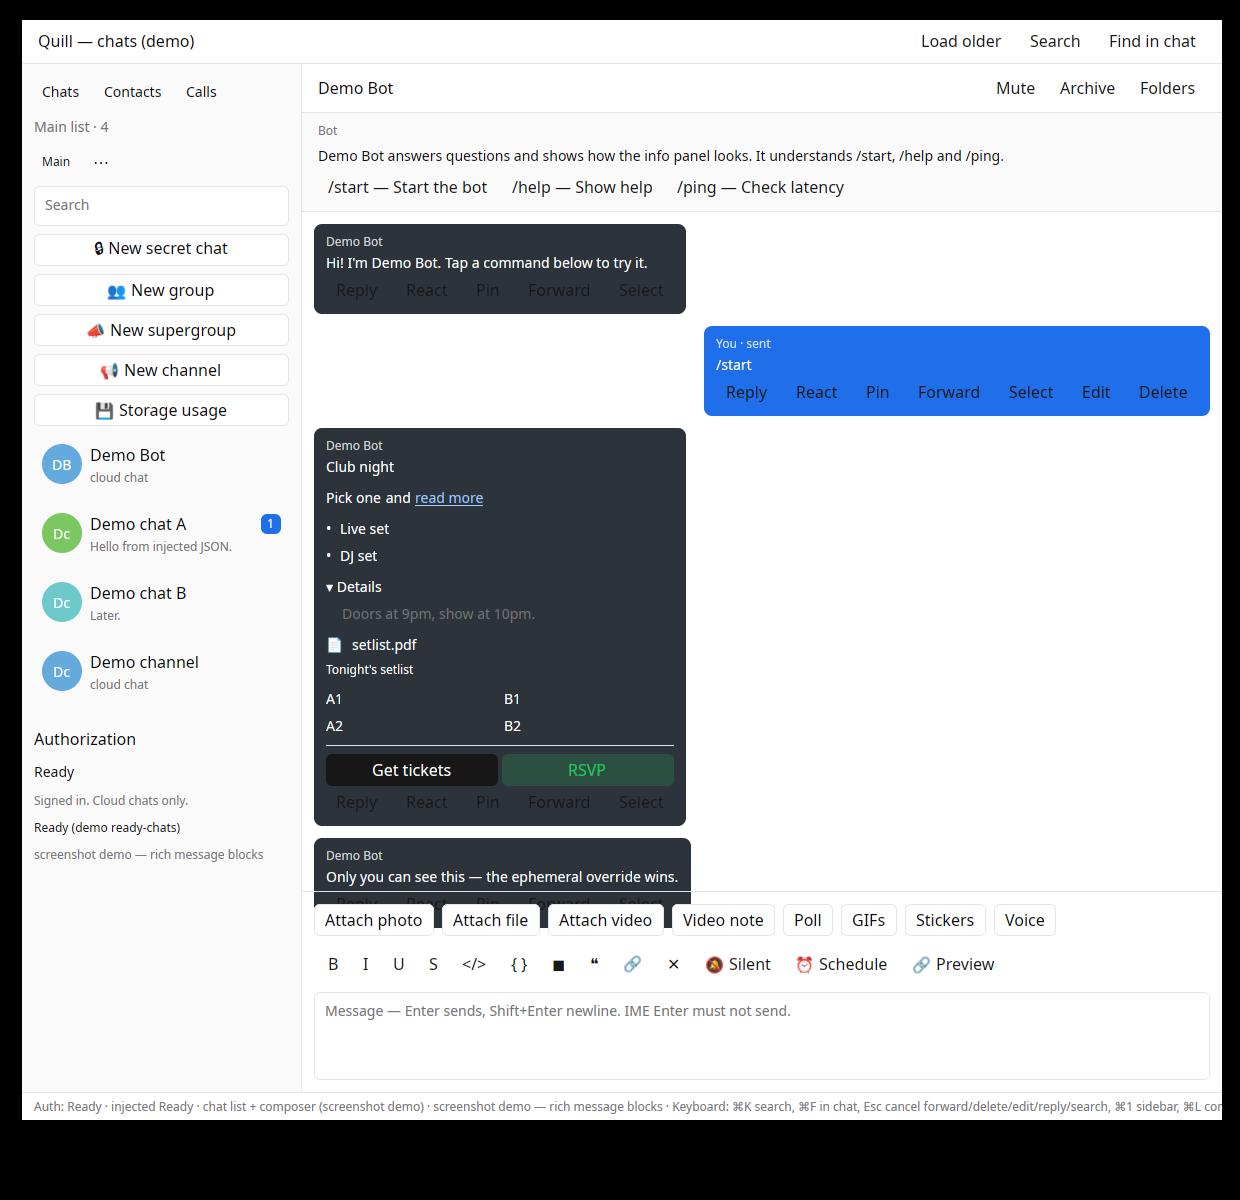
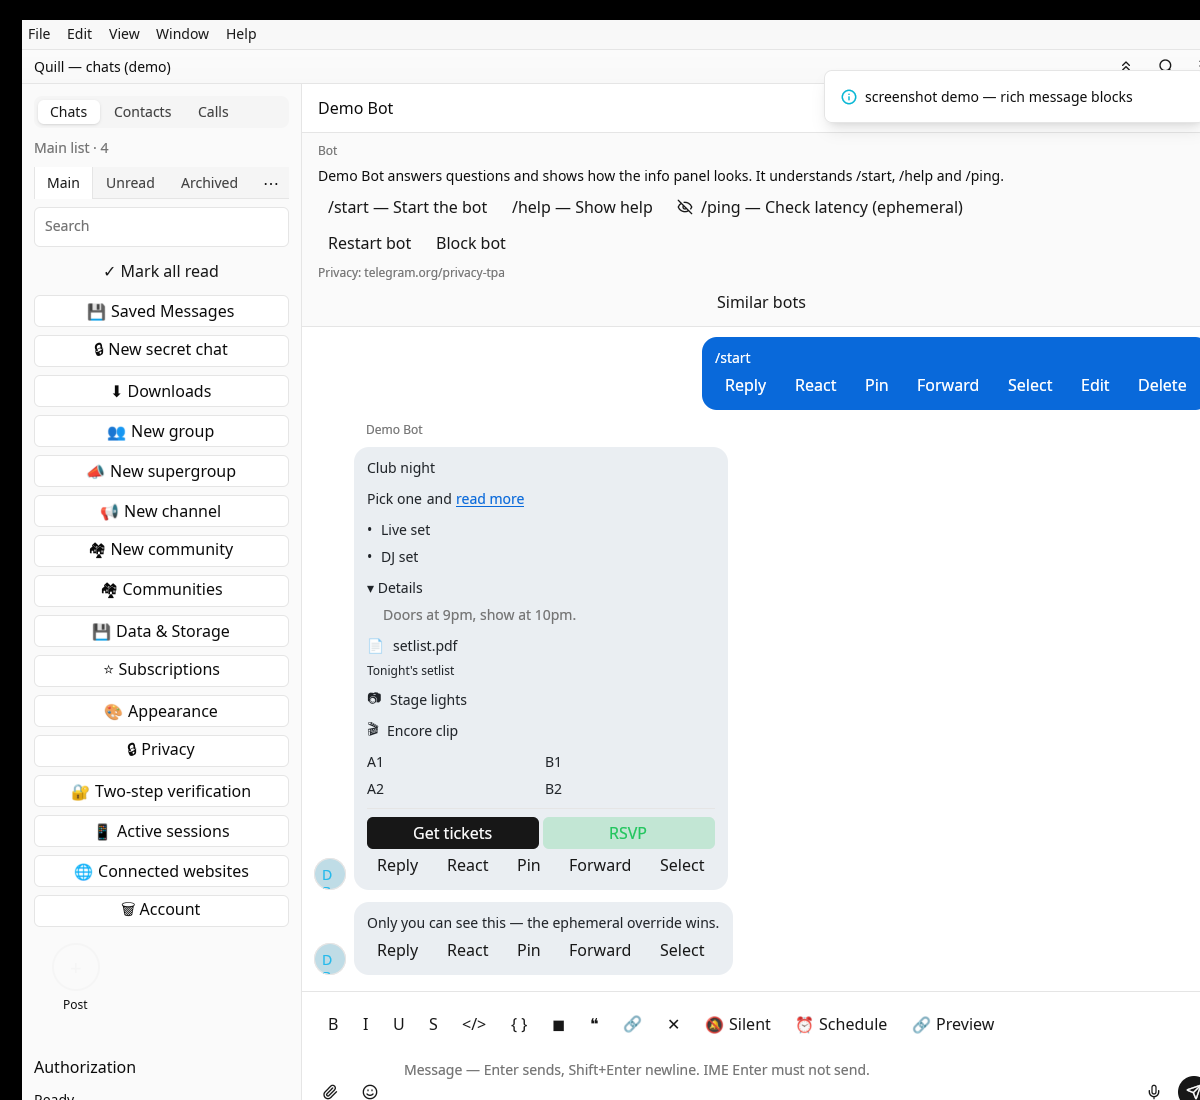
Slice msg-richtext-inline-media: inline photos/videos in the rich-text composer (#226)
* Slice msg-richtext-inline-media: inline photos/videos in the rich-text composer

* Fix text_char_len for new Photo/Video blocks (exhaustive match from #216)

* fmt: cargo fmt --all

* fix: close for loop in inline-media attachment conversion

---------

diff --git a/src/rich.rs b/src/rich.rs
@@ -48,6 +48,16 @@ pub enum RichBlock {
         /// Set only for editor-created blocks (outgoing `inputDocumentFile`).
         local_path: Option<PathBuf>,
     },
+    Photo {
+        caption: String,
+        /// Set only for editor-created blocks (outgoing `inputPhoto`).
+        local_path: Option<PathBuf>,
+    },
+    Video {
+        caption: String,
+        /// Set only for editor-created blocks (outgoing `inputVideo`).
+        local_path: Option<PathBuf>,
+    },
     Table {
         rows: Vec<Vec<String>>,
     },
@@ -75,6 +85,7 @@ impl RichBlock {
             RichBlock::Document {
                 file_name, caption, ..
             } => len(file_name) + len(caption),
+            RichBlock::Photo { caption, .. } | RichBlock::Video { caption, .. } => len(caption),
             RichBlock::Table { rows } => rows.iter().flatten().map(|cell| len(cell)).sum(),
             RichBlock::ButtonRow { .. }
             | RichBlock::Divider
@@ -94,6 +105,9 @@ impl RichBlock {
             }
             RichBlock::Document { file_name, .. } => {
                 (!file_name.is_empty()).then_some(file_name.as_str())
+            }
+            RichBlock::Photo { caption, .. } | RichBlock::Video { caption, .. } => {
+                (!caption.is_empty()).then_some(caption.as_str())
             }
             _ => None,
         }
@@ -117,6 +131,18 @@ fn field_str(value: &Value, field: &str) -> String {
 
 fn block_type(value: &Value) -> &str {
     value.get("@type").and_then(Value::as_str).unwrap_or("")
+}
+
+/// Plain text of a `pageBlockCaption` node (`pageBlockPhoto`,
+/// `pageBlockVideo`, `pageBlockDocument` share this shape).
+fn block_caption(value: &Value) -> String {
+    rich_text_to_parts(
+        value
+            .get("caption")
+            .and_then(|c| c.get("text"))
+            .unwrap_or(&Value::Null),
+    )
+    .0
 }
 
 #[derive(Default)]
@@ -417,18 +443,21 @@ pub fn parse_page_block(value: &Value) -> RichBlock {
         }
         "pageBlockDocument" => {
             let document = value.get("document").unwrap_or(&Value::Null);
-            let (caption, _, _) = rich_text_to_parts(
-                value
-                    .get("caption")
-                    .and_then(|c| c.get("text"))
-                    .unwrap_or(&Value::Null),
-            );
             RichBlock::Document {
                 file_name: field_str(document, "file_name"),
-                caption,
+                caption: block_caption(value),
                 local_path: None,
             }
         }
+        // Schema :4279 (`pageBlockPhoto`) and :4287 (`pageBlockVideo`).
+        "pageBlockPhoto" => RichBlock::Photo {
+            caption: block_caption(value),
+            local_path: None,
+        },
+        "pageBlockVideo" => RichBlock::Video {
+            caption: block_caption(value),
+            local_path: None,
+        },
         "pageBlockButtonRow" => {
             let buttons = value
                 .get("buttons")
@@ -570,8 +599,17 @@ fn block_rich_text(text: &str) -> Value {
     formatted_to_rich_text(&clean, &entities)
 }
 
+/// `pageBlockCaption` for an outgoing media block (schema :4133).
+fn page_block_caption(caption: &str) -> Value {
+    json!({
+        "@type": "pageBlockCaption",
+        "text": block_rich_text(caption),
+        "credit": plain(""),
+    })
+}
+
 /// Build one `inputPageBlock*` object. `None` for blocks with no honest
-/// input mapping (invisible, unsupported, or a document without a local
+/// input mapping (invisible, unsupported, or a media block without a local
 /// path — never a JSON `local.path`).
 pub fn input_page_block_json(block: &RichBlock) -> Option<Value> {
     match block {
@@ -626,11 +664,56 @@ pub fn input_page_block_json(block: &RichBlock) -> Option<Value> {
                     "thumbnail": Value::Null,
                     "disable_content_type_detection": false,
                 },
-                "caption": {
-                    "@type": "pageBlockCaption",
-                    "text": block_rich_text(caption),
-                    "credit": plain(""),
+                "caption": page_block_caption(caption),
+            }))
+        }
+        RichBlock::Photo {
+            caption,
+            local_path,
+        } => {
+            let path = local_path.as_ref()?.to_string_lossy().into_owned();
+            Some(json!({
+                // Schema :6029 (`inputPageBlockPhoto`); `inputPhoto` is
+                // :5837 — thumbnail null uploads from the file, same as
+                // `input_message_photo` in telegram/requests/media.rs.
+                "@type": "inputPageBlockPhoto",
+                "photo": {
+                    "@type": "inputPhoto",
+                    "photo": { "@type": "inputFileLocal", "path": path },
+                    "thumbnail": Value::Null,
+                    "video": Value::Null,
+                    "added_sticker_file_ids": [],
+                    "width": 0,
+                    "height": 0,
                 },
+                "caption": page_block_caption(caption),
+                "has_spoiler": false,
+            }))
+        }
+        RichBlock::Video {
+            caption,
+            local_path,
+        } => {
+            let path = local_path.as_ref()?.to_string_lossy().into_owned();
+            Some(json!({
+                // Schema :6035 (`inputPageBlockVideo`); `inputVideo` is
+                // :5856 — zeros let TDLib probe the local file, same as
+                // `input_message_video` in telegram/requests/media.rs.
+                "@type": "inputPageBlockVideo",
+                "video": {
+                    "@type": "inputVideo",
+                    "video": { "@type": "inputFileLocal", "path": path },
+                    "thumbnail": Value::Null,
+                    "cover": Value::Null,
+                    "start_timestamp": 0,
+                    "added_sticker_file_ids": [],
+                    "duration": 0,
+                    "width": 0,
+                    "height": 0,
+                    "supports_streaming": false,
+                },
+                "caption": page_block_caption(caption),
+                "has_spoiler": false,
             }))
         }
         RichBlock::Table { rows } => {
@@ -1033,6 +1116,39 @@ mod tests {
                 local_path: None,
             }
         );
+        let photo = json!({
+            "@type": "pageBlockPhoto",
+            "photo": { "@type": "photo", "id": 1 },
+            "caption": { "@type": "pageBlockCaption",
+                "text": { "@type": "richTextPlain", "text": "sunset" },
+                "credit": { "@type": "richTextPlain", "text": "" } },
+            "url": "",
+            "has_spoiler": false,
+        });
+        assert_eq!(
+            parse_page_block(&photo),
+            RichBlock::Photo {
+                caption: "sunset".into(),
+                local_path: None,
+            }
+        );
+        let video = json!({
+            "@type": "pageBlockVideo",
+            "video": { "@type": "video", "id": 2 },
+            "caption": { "@type": "pageBlockCaption",
+                "text": { "@type": "richTextPlain", "text": "clip" },
+                "credit": { "@type": "richTextPlain", "text": "" } },
+            "need_autoplay": false,
+            "is_looped": false,
+            "has_spoiler": false,
+        });
+        assert_eq!(
+            parse_page_block(&video),
+            RichBlock::Video {
+                caption: "clip".into(),
+                local_path: None,
+            }
+        );
     }
 
     #[test]
@@ -1175,6 +1291,50 @@ mod tests {
         assert_eq!(json["@type"], "inputPageBlockDocument");
         assert_eq!(json["document"]["@type"], "inputDocument");
         assert_eq!(json["document"]["document"]["@type"], "inputFileLocal");
+
+        // Photo/video mirror the document mapping: no local path → no
+        // honest input mapping.
+        for (kind, type_name) in [
+            (
+                RichBlock::Photo {
+                    caption: "cap".into(),
+                    local_path: None,
+                },
+                "inputPageBlockPhoto",
+            ),
+            (
+                RichBlock::Video {
+                    caption: "cap".into(),
+                    local_path: None,
+                },
+                "inputPageBlockVideo",
+            ),
+        ] {
+            assert!(input_page_block_json(&kind).is_none(), "{type_name}");
+        }
+        let photo = RichBlock::Photo {
+            caption: "cap".into(),
+            local_path: Some(PathBuf::from("/tmp/p.jpg")),
+        };
+        let json = input_page_block_json(&photo).expect("photo");
+        assert_eq!(json["@type"], "inputPageBlockPhoto");
+        assert_eq!(json["photo"]["@type"], "inputPhoto");
+        assert_eq!(json["photo"]["photo"]["@type"], "inputFileLocal");
+        assert_eq!(json["photo"]["photo"]["path"], "/tmp/p.jpg");
+        assert_eq!(json["caption"]["@type"], "pageBlockCaption");
+        assert_eq!(json["has_spoiler"], false);
+
+        let video = RichBlock::Video {
+            caption: String::new(),
+            local_path: Some(PathBuf::from("/tmp/v.mp4")),
+        };
+        let json = input_page_block_json(&video).expect("video");
+        assert_eq!(json["@type"], "inputPageBlockVideo");
+        assert_eq!(json["video"]["@type"], "inputVideo");
+        assert_eq!(json["video"]["video"]["@type"], "inputFileLocal");
+        assert_eq!(json["video"]["video"]["path"], "/tmp/v.mp4");
+        assert_eq!(json["caption"]["@type"], "pageBlockCaption");
+        assert_eq!(json["has_spoiler"], false);
     }
 
     #[test]

diff --git a/src/ui/message_text.rs b/src/ui/message_text.rs
@@ -692,6 +692,42 @@ pub(super) fn message_rich_block(
     stack.into_any_element()
 }
 
+/// M2: inline photo/video rich block — an emoji tile with the caption,
+/// mirroring the document tile above.
+fn rich_media_tile(
+    row_id: u64,
+    index: usize,
+    kind: &str,
+    emoji: &str,
+    caption: &str,
+) -> AnyElement {
+    // No caption → label the tile with the media kind instead of an empty row.
+    let label = if caption.is_empty() {
+        match kind {
+            "photo" => "Photo",
+            "video" => "Video",
+            _ => kind,
+        }
+        .to_string()
+    } else {
+        caption.to_string()
+    };
+    div()
+        .id(format!("rich-{kind}-{row_id}-{index}"))
+        .flex()
+        .flex_col()
+        .gap_1()
+        .child(
+            div()
+                .flex()
+                .items_center()
+                .gap_2()
+                .child(div().text_sm().child(emoji.to_string()))
+                .child(div().text_sm().font_medium().child(label)),
+        )
+        .into_any_element()
+}
+
 /// M2: one `RichBlock` as an element. `None` for invisible/unsupported
 /// blocks (`pageBlockAnchor`, unknown types) — parsed, never rendered as
 /// fake content.
@@ -826,6 +862,15 @@ pub(super) fn rich_block_element(
                 col = col.child(div().text_xs().child(caption.clone()));
             }
             Some(col.into_any_element())
+        }
+        // Inline photos/videos mirror the document tile: emoji + caption.
+        // (Thumbnails need `media_roots` plumbing through both render call
+        // sites — future work, not needed for parity here.)
+        RichBlock::Photo { caption, .. } => {
+            Some(rich_media_tile(row_id, index, "photo", "📷", caption))
+        }
+        RichBlock::Video { caption, .. } => {
+            Some(rich_media_tile(row_id, index, "video", "🎬", caption))
         }
         RichBlock::Table { rows } => {
             // Compact bordered grid: hairline dividers, tight cell padding,

diff --git a/src/ui/bots.rs b/src/ui/bots.rs
@@ -120,6 +120,8 @@ pub(super) fn apply_ready_rich_message(
         {"@type":"pageBlockDetails","header":{"@type":"richTextPlain","text":"Details"},"blocks":[
             {"@type":"pageBlockParagraph","text":{"@type":"richTextPlain","text":"Doors at 9pm, show at 10pm."}}],"is_open":true},
         {"@type":"pageBlockDocument","document":{"@type":"document","file_name":"setlist.pdf"},"caption":{"@type":"pageBlockCaption","text":{"@type":"richTextPlain","text":"Tonight's setlist"},"credit":{"@type":"richTextPlain","text":""}}},
+        {"@type":"pageBlockPhoto","photo":{"@type":"photo","id":7770001},"caption":{"@type":"pageBlockCaption","text":{"@type":"richTextPlain","text":"Stage lights"},"credit":{"@type":"richTextPlain","text":""}},"url":"","has_spoiler":false},
+        {"@type":"pageBlockVideo","video":{"@type":"video","id":7770002},"caption":{"@type":"pageBlockCaption","text":{"@type":"richTextPlain","text":"Encore clip"},"credit":{"@type":"richTextPlain","text":""}},"need_autoplay":false,"is_looped":false,"has_spoiler":false},
         {"@type":"pageBlockTable","cells":[
             [{"@type":"pageBlockTableCell","text":{"@type":"richTextPlain","text":"A1"}},{"@type":"pageBlockTableCell","text":{"@type":"richTextPlain","text":"B1"}}],
             [{"@type":"pageBlockTableCell","text":{"@type":"richTextPlain","text":"A2"}},{"@type":"pageBlockTableCell","text":{"@type":"richTextPlain","text":"B2"}}]],"is_bordered":true,"is_striped":false,"has_header":false},

diff --git a/src/ui/composer.rs b/src/ui/composer.rs
@@ -343,6 +343,22 @@ impl QuillApp {
                 local_path: Some(attachment.path.clone()),
             });
         }
+        // Attached photos/videos become inline media blocks — every one is
+        // converted (photos and videos accumulate, unlike documents), same
+        // local-path rule as above.
+        for attachment in &self.pending_attachments {
+            match attachment.kind {
+                AttachmentKind::Photo => blocks.push(quill::rich::RichBlock::Photo {
+                    caption: String::new(),
+                    local_path: Some(attachment.path.clone()),
+                }),
+                AttachmentKind::Video => blocks.push(quill::rich::RichBlock::Video {
+                    caption: String::new(),
+                    local_path: Some(attachment.path.clone()),
+                }),
+                _ => {}
+            }
+        }
         // Rich-text max length (same status-note pattern as the caption
         // limit): refuse over-limit drafts before the emptiness check so
         // the note names the limit instead of "type a message".

diff --git a/src/telegram/envelope/message_content.rs b/src/telegram/envelope/message_content.rs
@@ -153,6 +153,9 @@ impl RichMessageContent {
                     parts.push(file_name.clone());
                     parts.push(caption.clone());
                 }
+                RichBlock::Photo { caption, .. } | RichBlock::Video { caption, .. } => {
+                    parts.push(caption.clone());
+                }
                 RichBlock::Table { rows } => parts.extend(rows.iter().map(|row| row.join(" "))),
                 RichBlock::ButtonRow { .. }
                 | RichBlock::Divider

diff --git a/docs/screenshots/README.md b/docs/screenshots/README.md
@@ -90,7 +90,7 @@ Captured from a real GPUI window on 2026-09-17 (Linux Xvfb + lavapipe). **Not** 
 | `ready-group-call-scheduled.png` | **Slice calls-remainder-1** Scheduled (not yet started) video chat — the **"Design sync planning"** scheduled voice chat on the **Design voice** supergroup (chat id 51, call id 555): the card shows **"Scheduled voice chat"** with **"Starts in 1h"** (countdown from `scheduled_start_date`), the admin-only **Start now** button (`startScheduledVideoChat`), and the **"🔕 Notify me when it starts"** toggle (`toggleVideoChatEnabledStartNotification`, scheduled-only, any viewer; flips to "🔔 Notifying — tap to turn off" once on). Injected `updateGroupCall`/`updateNewChat`, no live Telegram, no live round-trip. Driven by `quill --screenshot-demo ready-group-call-scheduled`. |
 | `ready-calls-settings.png` | **Phase C2i** Calls tab: **Recent calls** fed by an injected `foundMessages` (through the real reducer — Maya Chen **Missed call** with the red "missed" badge, Leo Park **Busy call** for outgoing-declined, Ana Ruiz **Incoming video call · 6:12**), each with **Call again**, plus **Call settings** — Confirm before calling (● on), Use less data (honest "saved here — the call engine doesn't support it yet"), Who can call me (● My Contacts), Peer-to-peer calls (● Everybody). Injected fixtures, no live Telegram. Driven by `quill --screenshot-demo ready-calls-settings`. |
 | `ready-privacy.png` | **Slice S3** Privacy overlay: the five visibility rules (**Last Seen & Online**, **Phone Number**, **Profile Photos**, **Forwarded Messages**, **Groups & Channels**) with exception counts (+1/−1), the **Calls** section (**Who can call me**, **Peer-to-peer calls**), and the **Blocked users** list (Ana Ruiz with **Unblock**, **Block…** picker). The "Hide read time" toggle lives inside the Last Seen editor per TGX `SettingsPrivacyKeyController`. Injected fixtures, no live Telegram. Driven by `quill --screenshot-demo ready-privacy`. |
-| `ready-rich-message.png` | **M2** Demo bot chat with an injected `messageRichMessage`: **Club night** title block, styled paragraph (bold + URL), bullet list, collapsible details, inline document (`setlist.pdf` + caption), 2×2 table, divider, and a `pageBlockButtonRow` (**Get tickets** URL + **RSVP** callback buttons reusing the inline-keyboard tap handlers); below it a text message whose `ephemeral_content` overrides the regular content for the current user. Injected `updateNewMessage` JSON through the real reducer, no live Telegram. Driven by `quill --screenshot-demo ready-rich-message`. |
+| `ready-rich-message.png` | **M2** Demo bot chat with an injected `messageRichMessage`: **Club night** title block, styled paragraph (bold + URL), bullet list, collapsible details, inline document (`setlist.pdf` + caption), inline photo (**Stage lights** caption) and inline video (**Encore clip** caption) tiles, 2×2 table, divider, and a `pageBlockButtonRow` (**Get tickets** URL + **RSVP** callback buttons reusing the inline-keyboard tap handlers); below it a text message whose `ephemeral_content` overrides the regular content for the current user. Injected `updateNewMessage` JSON through the real reducer, no live Telegram. Driven by `quill --screenshot-demo ready-rich-message`. |
 | `ready-rich-editor.png` | **M2** Same bot chat with the composer in rich mode: markup source (`#` heading, `**bold**`, `-` list, `[]` checklist, `>>` details, `---` divider), block buttons (H1/H2/• List/☑ Check/▾ Details/— Divider) and a live block preview under the textarea. Driven by `quill --screenshot-demo ready-rich-editor`. |
 | `fixtures/demo-voice.ogg` | Tiny local file used as the completed voice `local.path` in the voice demo (not a screenshot). |
 | `fixtures/demo-video-note.mp4` | Square 240×240 MPEG-4 used as the picked round video for video-note send (not a screenshot). |

diff --git a/README.md b/README.md
@@ -117,7 +117,7 @@ A weekly `telegram-update-watch` scheduled job keeps this checklist current with
 - [x] Apply updateMessageEphemeralContent (ephemeral content refreshes over time; initial render covered by parity:msg-ephemeral-render) <!-- parity:msg-ephemeral-updates -->
 - [x] Compact tables in rich messages <!-- parity:msg-richtext-tables -->
 - [ ] Expandable block quotes (long block quotes collapse with an expand affordance; authoring covered by parity:msg-quote-block) <!-- parity:msg-blockquote-expandable -->
-- [ ] Inline photos/videos in the rich-text composer (partial: inline documents/files/music done — parity:msg-richtext-inline-doc) <!-- parity:msg-richtext-inline-media -->
+- [x] Inline photos/videos in the rich-text composer (pageBlockPhoto/pageBlockVideo ↔ inputPageBlockPhoto/inputPageBlockVideo; emoji+caption tile render) <!-- parity:msg-richtext-inline-media -->
 - [ ] AI tools in the rich-text composer (composeTextWithAi, composeRichMessageWithAi, createRichMessageWithAi, fixTextWithAi, fixRichMessageWithAi) <!-- parity:msg-richtext-ai-tools -->
 - [x] Rich-text composer max length (32,768 chars) <!-- parity:msg-richtext-max-length -->
 - [ ] Premium gating of the rich-text editor <!-- parity:msg-richtext-premium-gate -->
